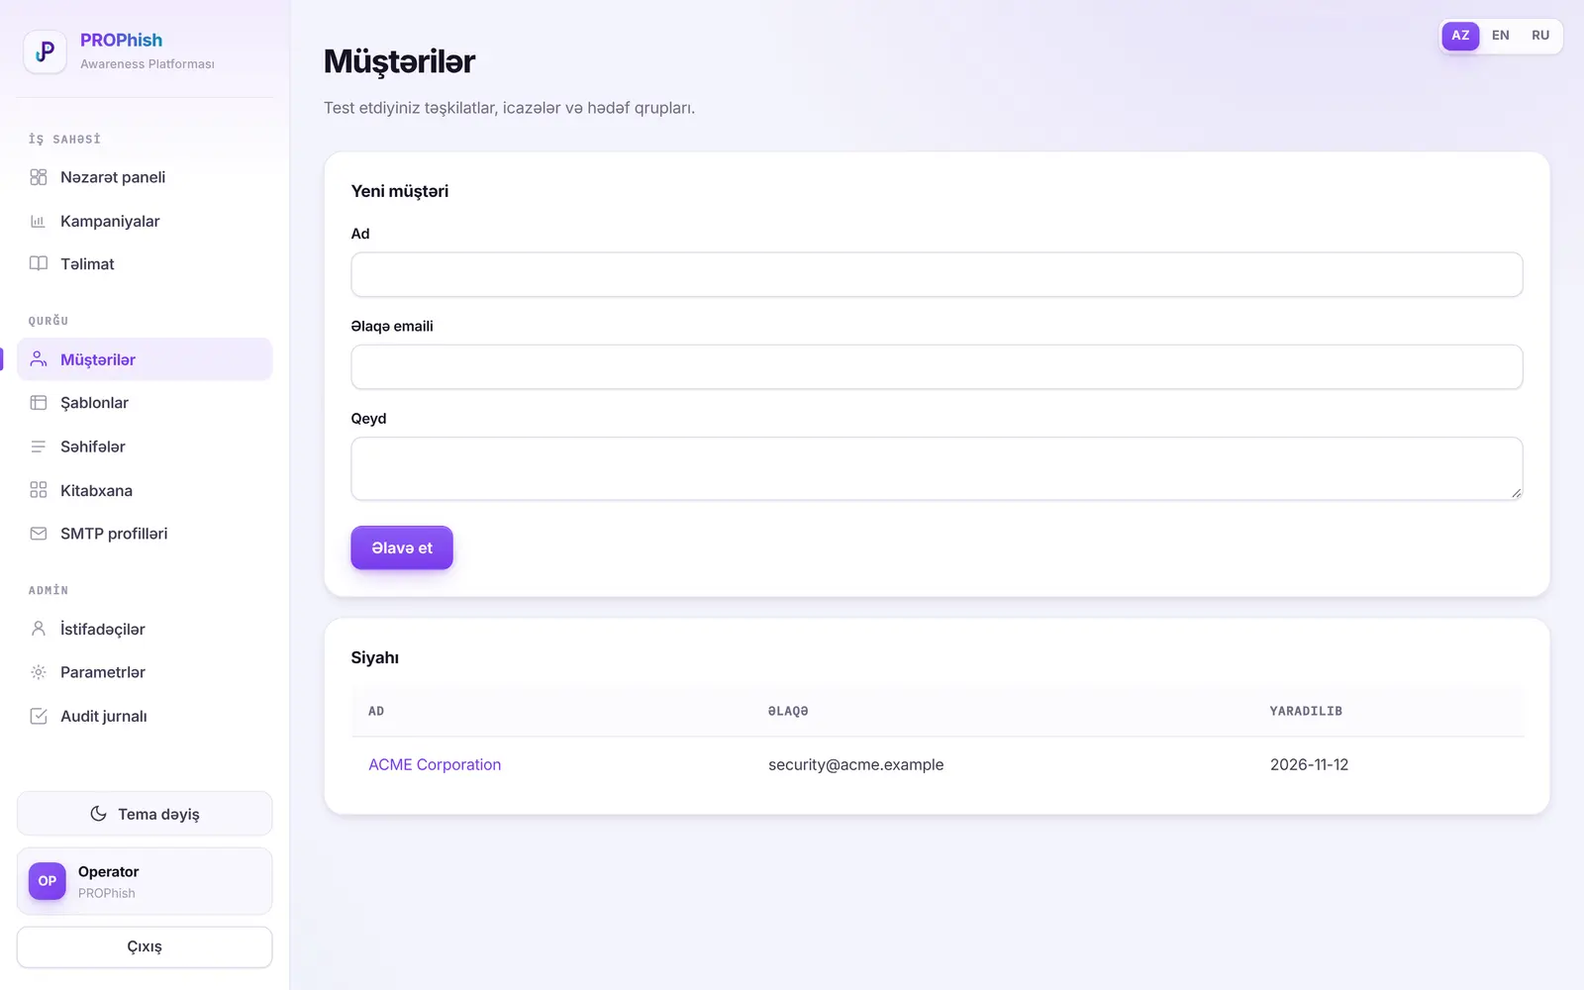
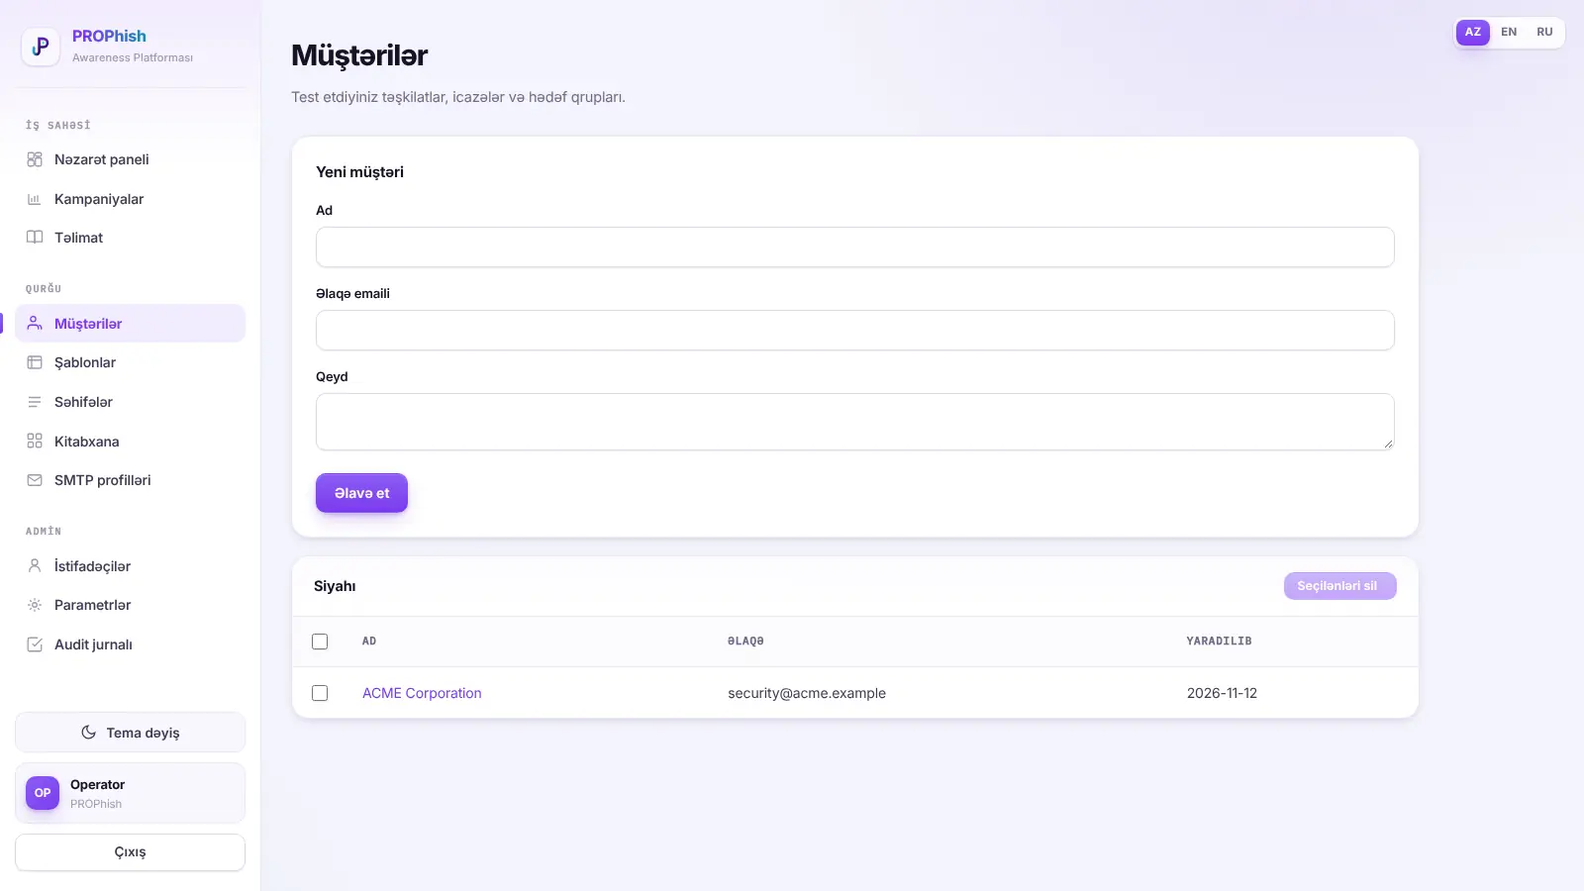
docs: cover bulk delete, confirmation modal, and direct admin access
Rewrite the in-app Documentation to reflect the recent changes:

- Bulk select/delete on the Clients, Templates and Pages list pages: a new
  "Bulk deletion" subsection in each section explaining the left-side
  checkboxes, select-all, "Delete selected" and confirmation, plus the
  client-cascade and the in-use (campaign RESTRICT) behaviour for templates
  and pages. The three list screenshots (03/06/07, az/en/ru) are regenerated
  to show the new checkbox column.
- Confirmation modal: a note in the Dashboard section describing the centred
  Yes/No + close dialog (Esc / backdrop cancel), with a new screenshot of the
  live dialog (15-confirm, az/en/ru).
- Direct admin access: doc.s2_note rewritten — the panel is now reachable
  directly and restricted by the PROPHISH_ADMIN_ALLOW_CIDRS IP allowlist
  (loopback always allowed, XFF not trusted, Docker real-client-IP caveat),
  replacing the old "SSH tunnel only" wording.

All new strings localized az/en/ru. Build, vet and templates test pass.

Claude-Session: https://claude.ai/code/session_011thwrZKDDwymubwXabu5nF

diff --git a/internal/server/templates/documentation.html b/internal/server/templates/documentation.html
@@ -80,6 +80,8 @@
     <figure class="docfig"><img src="/static/docs/{{curlang}}/02-dashboard.webp" alt="{{t "doc.s3_title"}}" loading="lazy"><figcaption>{{t "doc.s3_cap"}}</figcaption></figure>
     <h3>{{t "doc.s3_h_del"}}</h3>
     <p>{{t "doc.s3_del"}}</p>
+    <div class="doc-note brand"><span class="ic">🛡</span><span>{{t "doc.s3_confirm_note"}}</span></div>
+    <figure class="docfig"><img src="/static/docs/{{curlang}}/15-confirm.webp" alt="{{t "doc.confirm_cap"}}" loading="lazy"><figcaption>{{t "doc.confirm_cap"}}</figcaption></figure>
     <p>{{t "doc.s3_nav"}}</p>
   </section>
 
@@ -94,6 +96,9 @@
     <figure class="docfig"><img src="/static/docs/{{curlang}}/03-clients.webp" alt="{{t "doc.s4_title"}}" loading="lazy"><figcaption>{{t "doc.s4_cap1"}}</figcaption></figure>
     <figure class="docfig"><img src="/static/docs/{{curlang}}/04-client-detail.webp" alt="{{t "doc.s4_title"}}" loading="lazy"><figcaption>{{t "doc.s4_cap2"}}</figcaption></figure>
     <div class="doc-note warn"><span class="ic">⚠</span><span>{{t "doc.s4_note"}}</span></div>
+    <h3>{{t "doc.s4_h_bulk"}}</h3>
+    <p>{{t "doc.s4_bulk"}}</p>
+    <div class="doc-note warn"><span class="ic">⚠</span><span>{{t "doc.s4_bulk_note"}}</span></div>
   </section>
 
   <section id="groups" class="doc-sec">
@@ -110,6 +115,8 @@
     <h2><span class="n">6</span>{{t "doc.s6_title"}}</h2>
     <p>{{t "doc.s6_p"}}</p>
     <figure class="docfig"><img src="/static/docs/{{curlang}}/06-templates.webp" alt="{{t "doc.s6_title"}}" loading="lazy"><figcaption>{{t "doc.s6_cap"}}</figcaption></figure>
+    <h3>{{t "doc.s6_h_bulk"}}</h3>
+    <p>{{t "doc.s6_bulk"}}</p>
   </section>
 
   <section id="pages" class="doc-sec">
@@ -122,6 +129,8 @@
     </ol>
     <figure class="docfig"><img src="/static/docs/{{curlang}}/07-pages.webp" alt="{{t "doc.s7_title"}}" loading="lazy"><figcaption>{{t "doc.s7_cap"}}</figcaption></figure>
     <div class="doc-note"><span class="ic">🔐</span><span>{{t "doc.s7_note"}}</span></div>
+    <h3>{{t "doc.s7_h_bulk"}}</h3>
+    <p>{{t "doc.s7_bulk"}}</p>
   </section>
 
   <section id="builder" class="doc-sec">

diff --git a/internal/server/i18n_messages_docs.go b/internal/server/i18n_messages_docs.go
@@ -16,7 +16,7 @@ func init() {
 		"doc.s2_title":    {"az": "Giriş", "en": "Login", "ru": "Вход"},
 		"doc.s2_p":        {"az": "Administrator hesabı yaradıldıqdan sonra platforma sizi giriş ekranı ilə qarşılayır. E-poçt və parolla daxil olursunuz. Sağ yuxarıda tema (açıq/tünd) və dil (AZ / EN / RU) seçimi var.", "en": "After the administrator account is created, the platform greets you with the login screen. You log in with your email and password. In the top right there is a theme (light/dark) and language (AZ / EN / RU) selector.", "ru": "После создания учётной записи администратора платформа встречает вас экраном входа. Вы входите с помощью электронной почты и пароля. В правом верхнем углу есть выбор темы (светлая/тёмная) и языка (AZ / EN / RU)."},
 		"doc.s2_cap":      {"az": "Operator giriş ekranı", "en": "Operator login screen", "ru": "Экран входа оператора"},
-		"doc.s2_note":     {"az": "Admin paneli internetə birbaşa açılmamalıdır — onu yalnız daxili şəbəkədə və ya VPN/SSH tunnel arxasında saxlayın.", "en": "The admin panel must not be exposed directly to the internet — keep it only on the internal network or behind a VPN/SSH tunnel.", "ru": "Панель администратора не должна быть напрямую открыта в интернет — держите её только во внутренней сети или за VPN/SSH-туннелем."},
+		"doc.s2_note":     {"az": "Admin paneli artıq birbaşa açıla bilər (SSH tunel məcburi deyil), lakin onu <code>PROPHISH_ADMIN_ALLOW_CIDRS</code> <b>IP ağ siyahısı</b> ilə yalnız etibarlı şəbəkələrə bağlayın (məs. <code>10.0.0.0/8</code>). Siyahı boş olarsa məhdudiyyət yoxdur; loopback həmişə buraxılır. Yoxlama birbaşa qoşulmanın IP-sini istifadə edir — <code>X-Forwarded-For</code> başlığına etibar edilmir, ona görə onu başlıqla saxtalaşdırmaq olmaz. Docker arxasında konteyner həqiqi müştəri IP-sini görməlidir (əks halda bütün müştərilər şlüz kimi görünür) — buna görə onu host firewall ilə birlikdə istifadə edin.", "en": "The admin panel can now be reached directly (no SSH tunnel required), but lock it to trusted networks with the <code>PROPHISH_ADMIN_ALLOW_CIDRS</code> <b>IP allowlist</b> (e.g. <code>10.0.0.0/8</code>). An empty list means no restriction; loopback is always allowed. The check uses the direct connection IP — <code>X-Forwarded-For</code> is not trusted, so it cannot be spoofed with a header. Behind Docker the container must see the real client IP (otherwise every client looks like the gateway) — so pair it with a host firewall.", "ru": "Панель администратора теперь можно открывать напрямую (SSH-туннель не обязателен), но ограничьте её доверенными сетями с помощью <b>IP-белого списка</b> <code>PROPHISH_ADMIN_ALLOW_CIDRS</code> (напр. <code>10.0.0.0/8</code>). Пустой список означает отсутствие ограничений; loopback разрешён всегда. Проверка использует IP прямого подключения — заголовку <code>X-Forwarded-For</code> нет доверия, поэтому его нельзя подделать заголовком. За Docker контейнер должен видеть реальный IP клиента (иначе все клиенты выглядят как шлюз) — поэтому сочетайте это с файрволом на хосте."},
 		"doc.s3_title":    {"az": "Nəzarət paneli", "en": "Dashboard", "ru": "Панель управления"},
 		"doc.s3_p":        {"az": "Daxil olduqda ilk gördüyünüz ekran. Yuxarıda dörd əsas göstərici var: <b>aktiv kampaniyalar</b>, <b>test olunmuş işçilər</b>, <b>orta klik faizi</b> (aşağı = daha yaxşı) və <b>phishing bildirmə faizi</b> (yüksək = daha yaxşı). Aşağıda son kampaniyalar siyahısı göstərilir.", "en": "The first screen you see after logging in. At the top there are four key metrics: <b>active campaigns</b>, <b>employees tested</b>, <b>average click rate</b> (lower = better) and <b>phishing report rate</b> (higher = better). Below, the list of recent campaigns is shown.", "ru": "Экран, который вы видите первым после входа. Вверху четыре основных показателя: <b>активные кампании</b>, <b>протестированные сотрудники</b>, <b>средний процент кликов</b> (ниже = лучше) и <b>процент сообщений о фишинге</b> (выше = лучше). Ниже отображается список последних кампаний."},
 		"doc.s3_cap":      {"az": "Nəzarət paneli — ümumi göstəricilər və son kampaniyalar", "en": "Dashboard — overall metrics and recent campaigns", "ru": "Панель управления — общие показатели и последние кампании"},
@@ -83,6 +83,20 @@ func init() {
 		"doc.s14_title":   {"az": "Parametrlər (IMAP)", "en": "Settings (IMAP)", "ru": "Настройки (IMAP)"},
 		"doc.s14_p":       {"az": "Phishing-bildirmə qutusunu (işçilərin şübhəli e-poçtu yönləndirdiyi IMAP qutusu) konfiqurasiya edirsiniz. Sistem bu qutunu yoxlayıb hədəfləri avtomatik \"bildirdi\" kimi işarələyir — bu, müsbət göstəricidir.", "en": "You configure the phishing-report mailbox (the IMAP mailbox to which employees forward suspicious emails). The system checks this mailbox and automatically marks targets as \"reported\" — this is a positive metric.", "ru": "Вы настраиваете ящик для сообщений о фишинге (IMAP-ящик, куда сотрудники пересылают подозрительные письма). Система проверяет этот ящик и автоматически помечает цели как \"сообщил\" — это положительный показатель."},
 		"doc.s14_cap":     {"az": "IMAP / phishing-bildirmə parametrləri", "en": "IMAP / phishing-report settings", "ru": "Параметры IMAP / сообщений о фишинге"},
-		"doc.workflow":    {"az": "<b>Tam iş axını:</b> Müştəri yarat → icazə əlavə et → qrup və hədəflər → e-poçt şablonu → açılış səhifəsi → SMTP profili → kampaniya yarat (listener seç) → işə sal → nəticələri izlə → PDF/CSV hesabat.", "en": "<b>Full workflow:</b> Create client → add authorization → group and targets → email template → landing page → SMTP profile → create campaign (select listener) → launch → track results → PDF/CSV report.", "ru": "<b>Полный рабочий процесс:</b> Создать клиента → добавить авторизацию → группа и цели → шаблон письма → целевая страница → SMTP-профиль → создать кампанию (выбрать listener) → запустить → отслеживать результаты → PDF/CSV-отчёт."},
+
+		// ---- Confirmation modal (Dashboard section) ----
+		"doc.s3_confirm_note": {"az": "Bütün silmə və digər dağıdıcı əməliyyatlar artıq mərkəzi <b>təsdiq pəncərəsi</b> ilə qorunur: <b>Bəli</b> / <b>Xeyr</b> düymələri və bağlama (✕) işarəsi olur. <b>Xeyr</b>, ✕, fonun boş sahəsinə klik və ya <b>Esc</b> əməliyyatı ləğv edir; yalnız <b>Bəli</b> onu icra edir. Bu, təsadüfi kliklərə qarşı qoruyucudur.", "en": "All deletions and other destructive actions are now protected by a centred <b>confirmation dialog</b>: it has <b>Yes</b> / <b>No</b> buttons and a close (✕) icon. <b>No</b>, the ✕, a click on the backdrop or <b>Esc</b> cancels the action; only <b>Yes</b> carries it out. This is a safeguard against accidental clicks.", "ru": "Все удаления и другие разрушительные действия теперь защищены центральным <b>окном подтверждения</b>: в нём есть кнопки <b>Да</b> / <b>Нет</b> и значок закрытия (✕). <b>Нет</b>, ✕, клик по фону или <b>Esc</b> отменяют действие; выполняет его только <b>Да</b>. Это защита от случайных кликов."},
+		"doc.confirm_cap":     {"az": "Təsdiq pəncərəsi silmədən əvvəl soruşur (nümunə: müştəri silmə).", "en": "The confirmation dialog asks before deleting (example: deleting a client).", "ru": "Окно подтверждения спрашивает перед удалением (пример: удаление клиента)."},
+
+		// ---- Bulk deletion on the Clients / Templates / Pages list pages ----
+		"doc.s4_h_bulk":    {"az": "Toplu silmə", "en": "Bulk deletion", "ru": "Массовое удаление"},
+		"doc.s4_bulk":      {"az": "Müştərilər siyahısında hər sətrin solunda və başlıqda checkbox var. Tək-tək və ya <b>hamısını seç</b> ilə seçib <b>Seçilənləri sil</b> düyməsi ilə silirsiniz (təsdiq pəncərəsindən sonra). Diqqət: müştərinin silinməsi <b>kaskad</b>dır — onunla birlikdə həmin müştəriyə aid bütün icazələr, qruplar və hədəflər, müştəriyə bağlı şablon və səhifələr, həmçinin kampaniyalar və onların nəticələri silinir. Yalnız müştəriyə bağlı obyektlər təsir alır; <b>qlobal (paylaşılan) şablon və səhifələr</b> toxunulmur.", "en": "In the Clients list there is a checkbox to the left of each row and in the header. You select rows one by one or with <b>Select all</b> and delete them with the <b>Delete selected</b> button (after the confirmation dialog). Note: deleting a client is a <b>cascade</b> — it also removes all of that client's authorizations, groups and targets, its client-scoped templates and pages, and its campaigns together with their results. Only objects tied to the client are affected; <b>global (shared) templates and pages</b> are left untouched.", "ru": "В списке клиентов слева от каждой строки и в заголовке есть флажок. Вы выбираете по одному или с помощью <b>выбрать все</b> и удаляете кнопкой <b>Удалить выбранные</b> (после окна подтверждения). Внимание: удаление клиента — <b>каскадное</b>: вместе с ним удаляются все авторизации, группы и цели этого клиента, привязанные к нему шаблоны и страницы, а также кампании и их результаты. Затрагиваются только объекты, привязанные к клиенту; <b>глобальные (общие) шаблоны и страницы</b> не затрагиваются."},
+		"doc.s4_bulk_note": {"az": "Silinmə <b>geri qaytarıla bilməz</b>. Əgər müştərinin şablonu və ya səhifəsi <b>başqa müştərinin</b> kampaniyasında istifadə olunursa, həmin müştəri bütövlükdə silinmir (digər seçilmiş müştərilər silinir). Qeyd: tək-tək silmə admin tələb etsə də, toplu silmə istənilən daxil olmuş operator üçün əlçatandır.", "en": "Deletion is <b>irreversible</b>. If a client's template or page is still used by <b>another client's</b> campaign, that client is not deleted at all (the other selected clients still are). Note: although single-item deletion requires an admin, bulk deletion is available to any logged-in operator.", "ru": "Удаление <b>необратимо</b>. Если шаблон или страница клиента всё ещё используется в кампании <b>другого клиента</b>, этот клиент не удаляется целиком (остальные выбранные клиенты удаляются). Примечание: хотя удаление по одному требует роли admin, массовое удаление доступно любому вошедшему оператору."},
+		"doc.s6_h_bulk":    {"az": "Toplu silmə", "en": "Bulk deletion", "ru": "Массовое удаление"},
+		"doc.s6_bulk":      {"az": "Şablonlar siyahısında hər sətrin solunda və başlıqda checkbox var. Tək-tək və ya <b>hamısını seç</b> ilə seçib <b>Seçilənləri sil</b> düyməsi ilə silirsiniz (təsdiqdən sonra). Hələ də bir kampaniyada <b>istifadə olunan</b> şablon silinmir — həmin sətir yerində qalır, qalan seçilmiş şablonlar isə silinir. Bu halda sistem neçəsinin silindiyini və neçəsinin istifadədə olduğunu bildirir.", "en": "In the Templates list there is a checkbox to the left of each row and in the header. You select rows one by one or with <b>Select all</b> and delete them with the <b>Delete selected</b> button (after confirmation). A template still <b>in use</b> by a campaign is not deleted — that row stays in place, while the rest of the selected templates are deleted. In this case the system reports how many were deleted and how many are in use.", "ru": "В списке шаблонов слева от каждой строки и в заголовке есть флажок. Вы выбираете по одному или с помощью <b>выбрать все</b> и удаляете кнопкой <b>Удалить выбранные</b> (после подтверждения). Шаблон, всё ещё <b>используемый</b> кампанией, не удаляется — эта строка остаётся на месте, а остальные выбранные шаблоны удаляются. В этом случае система сообщает, сколько удалено и сколько используется."},
+		"doc.s7_h_bulk":    {"az": "Toplu silmə", "en": "Bulk deletion", "ru": "Массовое удаление"},
+		"doc.s7_bulk":      {"az": "Səhifələr siyahısında hər sətrin solunda və başlıqda checkbox var. Tək-tək və ya <b>hamısını seç</b> ilə seçib <b>Seçilənləri sil</b> düyməsi ilə silirsiniz (təsdiqdən sonra). Hələ də bir kampaniyada <b>istifadə olunan</b> açılış səhifəsi silinmir — həmin sətir qalır, qalan seçilmişlər silinir və sistem nəticəni (neçəsi silindi / neçəsi istifadədə) göstərir.", "en": "In the Pages list there is a checkbox to the left of each row and in the header. You select rows one by one or with <b>Select all</b> and delete them with the <b>Delete selected</b> button (after confirmation). A landing page still <b>in use</b> by a campaign is not deleted — that row stays, the rest of the selected ones are deleted, and the system shows the result (how many deleted / how many in use).", "ru": "В списке страниц слева от каждой строки и в заголовке есть флажок. Вы выбираете по одному или с помощью <b>выбрать все</b> и удаляете кнопкой <b>Удалить выбранные</b> (после подтверждения). Целевая страница, всё ещё <b>используемая</b> кампанией, не удаляется — эта строка остаётся, остальные выбранные удаляются, а система показывает результат (сколько удалено / сколько используется)."},
+
+		"doc.workflow": {"az": "<b>Tam iş axını:</b> Müştəri yarat → icazə əlavə et → qrup və hədəflər → e-poçt şablonu → açılış səhifəsi → SMTP profili → kampaniya yarat (listener seç) → işə sal → nəticələri izlə → PDF/CSV hesabat.", "en": "<b>Full workflow:</b> Create client → add authorization → group and targets → email template → landing page → SMTP profile → create campaign (select listener) → launch → track results → PDF/CSV report.", "ru": "<b>Полный рабочий процесс:</b> Создать клиента → добавить авторизацию → группа и цели → шаблон письма → целевая страница → SMTP-профиль → создать кампанию (выбрать listener) → запустить → отслеживать результаты → PDF/CSV-отчёт."},
 	})
 }
